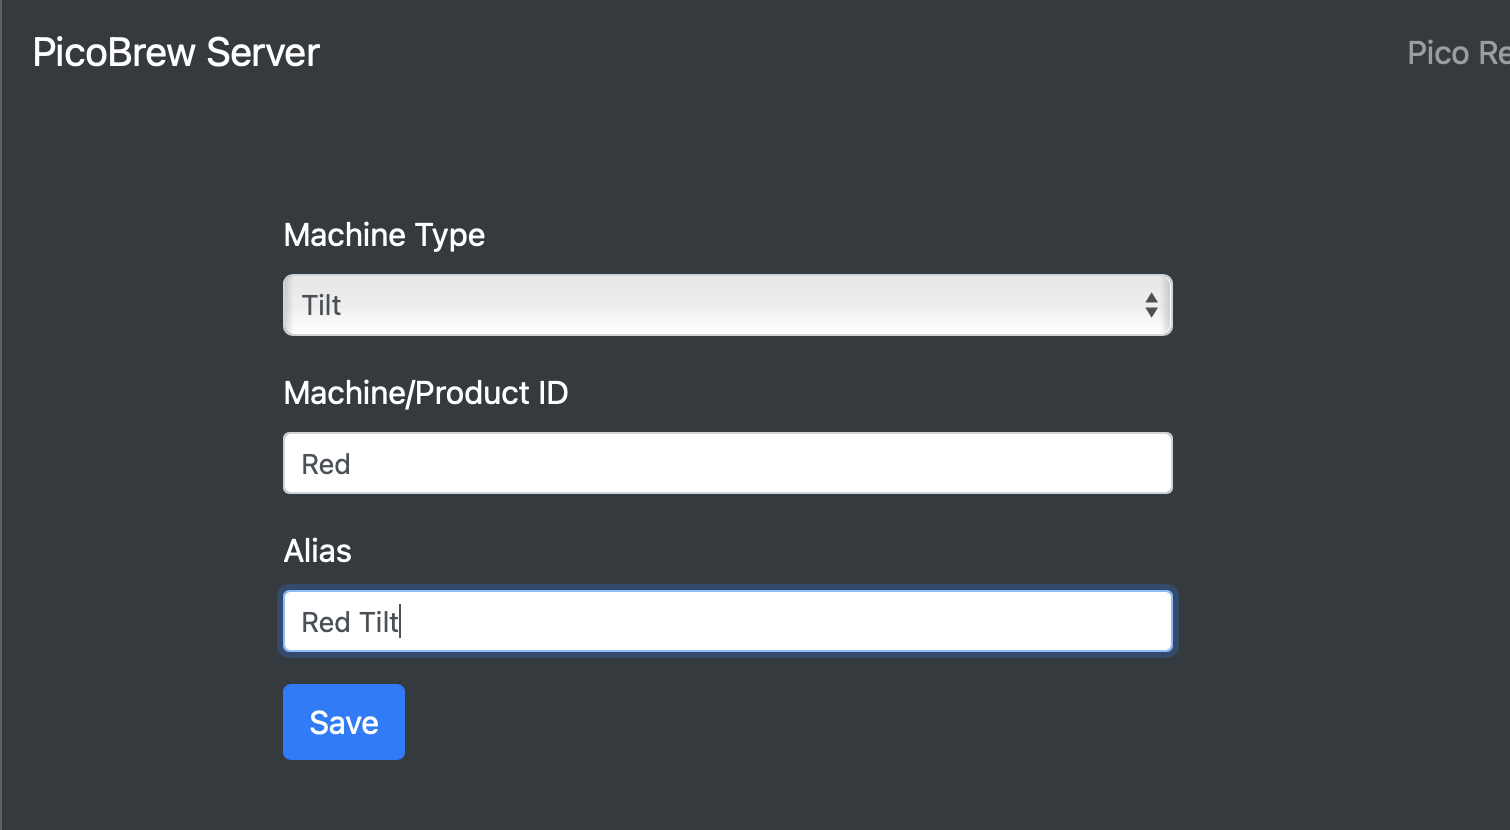
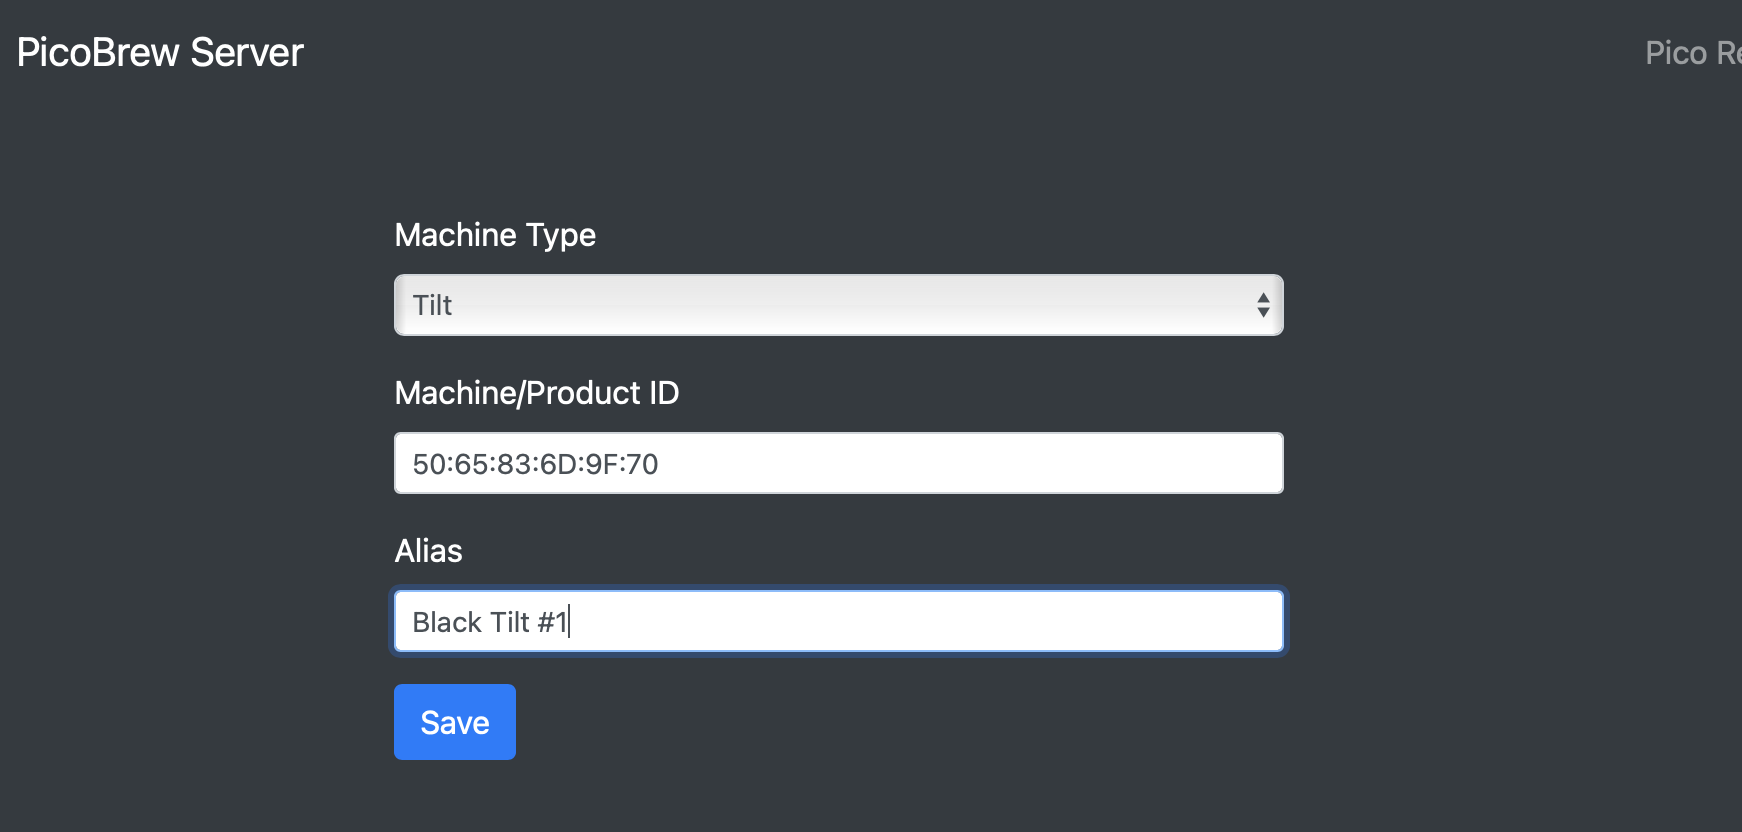
updated documentation

diff --git a/app/static/support/tilt/tilt.md b/app/static/support/tilt/tilt.md
@@ -2,13 +2,19 @@
 
 ## Configuring Tilt for Use with Server
 
-Tilt support is based on using pytilt to get the data from the tilt using bluetooth and send to picobrew via an API call.
+Tilt support is provided in two ways
 
-See [pytilt on github](https://github.com/atlefren/pytilt) for details on how to install and set it up, but all you have to do is set the environment variable
+- Natively via bluetooth in the picobrew_pico server. This should work out of the box for linux/windows/mac as long as the tilt is within range of the picobrew_pico server.
+- Using pytilt to send to picobrew via an API call. This is just a backup/alternative and only needed if you can't use bluetooth on the server, or you don't ferment within range of the server.
+
+### Pytilt
+See [pytilt on github](https://github.com/atlefren/pytilt) for details on how to install and setup pytilt if needed, but all you have to do is set the environment variable
 
 >PYTILT_URL=http://your-picobrew_pico-server/API/tilt
 
 and setup pytilt as usual and picobrew will get the data.
+
+Please note that if using pytilt you will be limited to only one Tilt of each color, and no RSSI will be reported.
 
 ## Setup the Server Devices Page
 Now that your tilt is configured and sending data to your server, let's add it to the server's device list. On a browser connected to the server's AP, open the server. Under the **System** pulldown menu, select **Devices**. After clicking **+ Add New Device** you should see a page similar to this:
@@ -16,8 +22,8 @@ Now that your tilt is configured and sending data to your server, let's add it t
   ![Server Setup](/static/support/tilt/Server_Devices.png)
 
 Perform the following steps:
-  * Under the **Machine Type** pulldown select *tilt*
-  * In the **Machine/Product ID** box, enter the tilt type ("Red", "Green", "Black", "Purple", "Orange", "Blue", "Yellow", "Pink")
+  * Under the **Machine Type** pulldown select *Tilt*
+  * In the **Machine/Product ID** box, enter the ID from the [home page](/)
   * In the Alias box, add any fun or useful name you'd like.
   * Click **Save**
 
